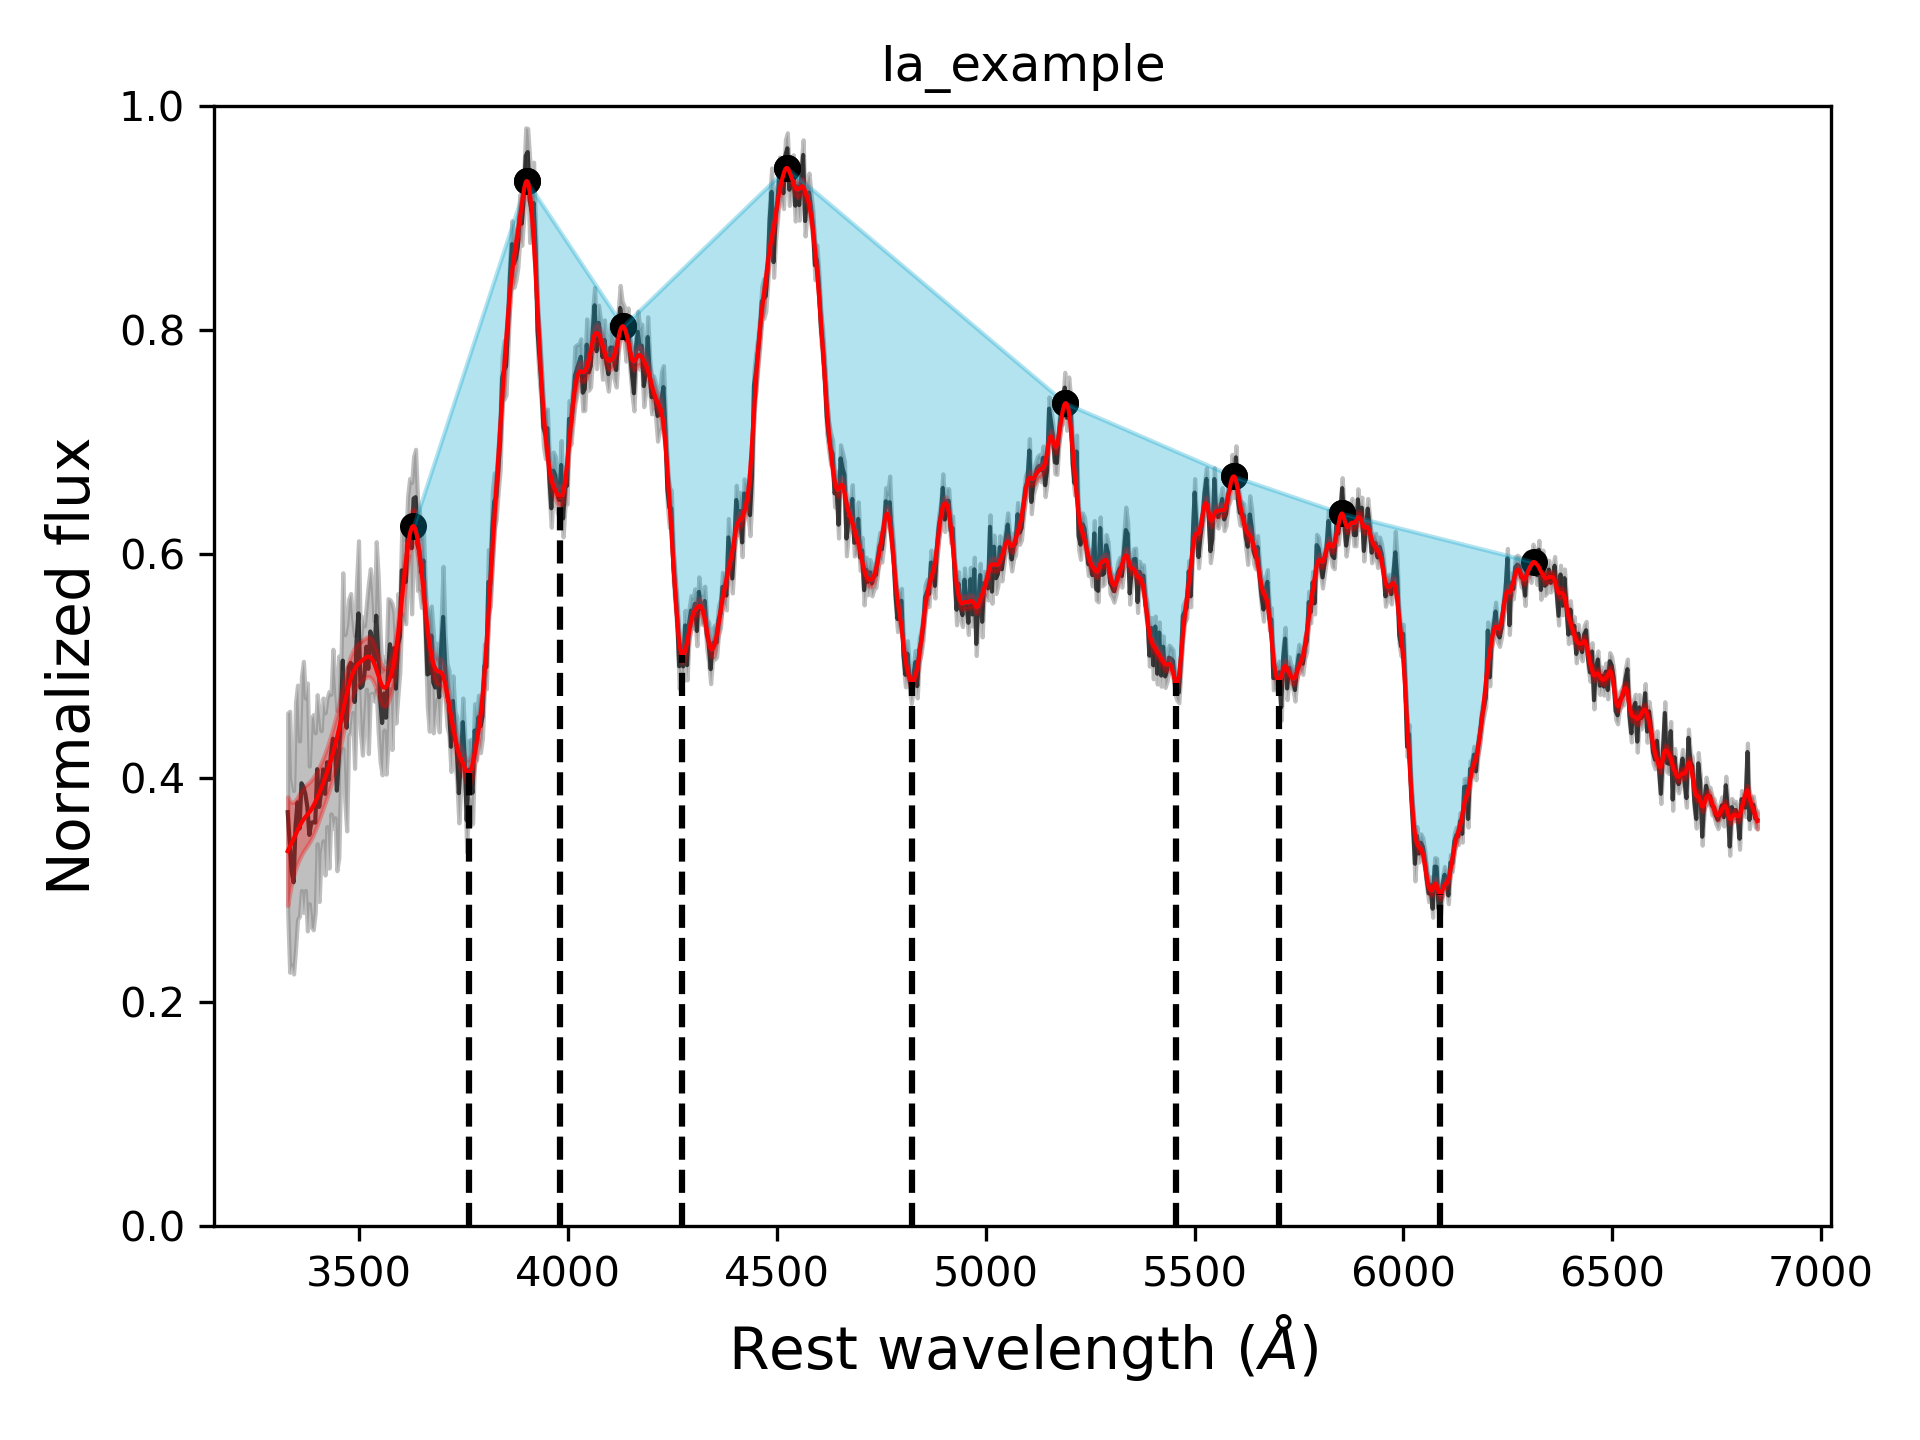
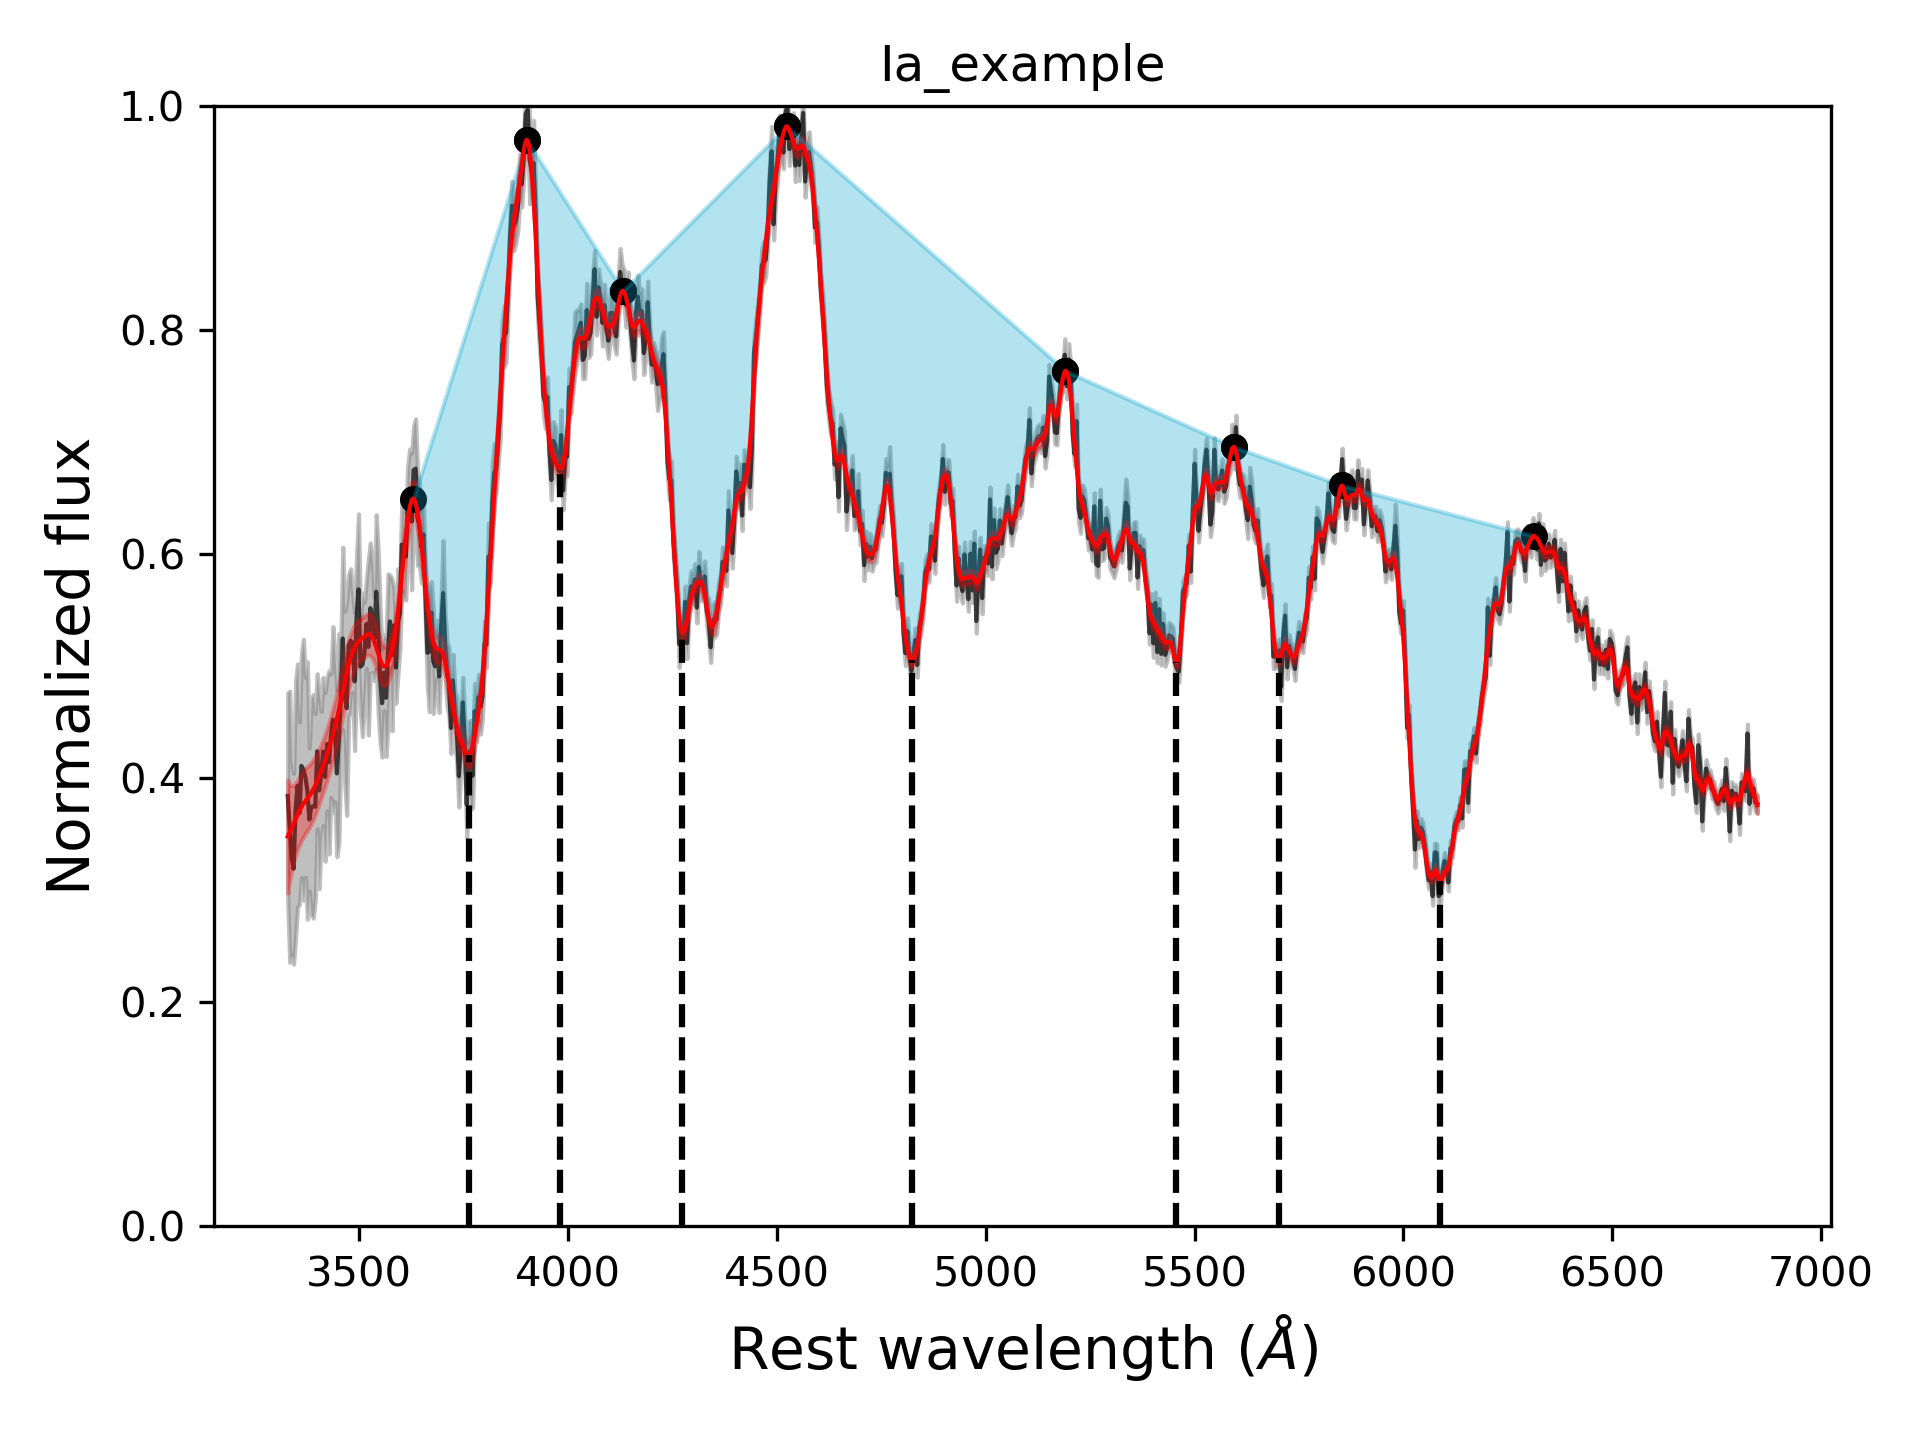
keep track of flux maxima

Changed region(s): [[0.125, 0.0625, 0.9375, 0.6562]]

diff --git a/spextractor/spextractor.py b/spextractor/spextractor.py
@@ -53,7 +53,6 @@ class Spextractor:
 
         self.wave, self.flux, self.flux_err = self._setup_data(data)
         self.wave = doppler.deredshift(self.wave, z=z)
-        self._normalize_flux()
 
         if remove_zeroes:
             self._remove_zeroes()
@@ -70,7 +69,10 @@ class Spextractor:
 
         if auto_prune:
             self._auto_prune(prune_excess)
-            self._normalize_flux()
+
+        self.fmax_in = self.flux.max()
+        self.fmax_out = self.fmax_in
+        self._normalize_flux()
 
         self._outlier_ds_factor = outlier_downsampling
 
@@ -133,11 +135,12 @@ class Spextractor:
 
         if sigma_outliers is not None:
             self._filter_outliers(sigma_outliers, downsample_method)
-            self._normalize_flux()
 
         if downsampling is not None:
             self._downsample(downsampling, downsample_method)
-            # self._normalize_flux()
+
+        self.fmax_out *= self.flux.max()
+        self._normalize_flux()
 
         y_err = np.zeros_like(self.flux_err)
         if model_uncertainty:
